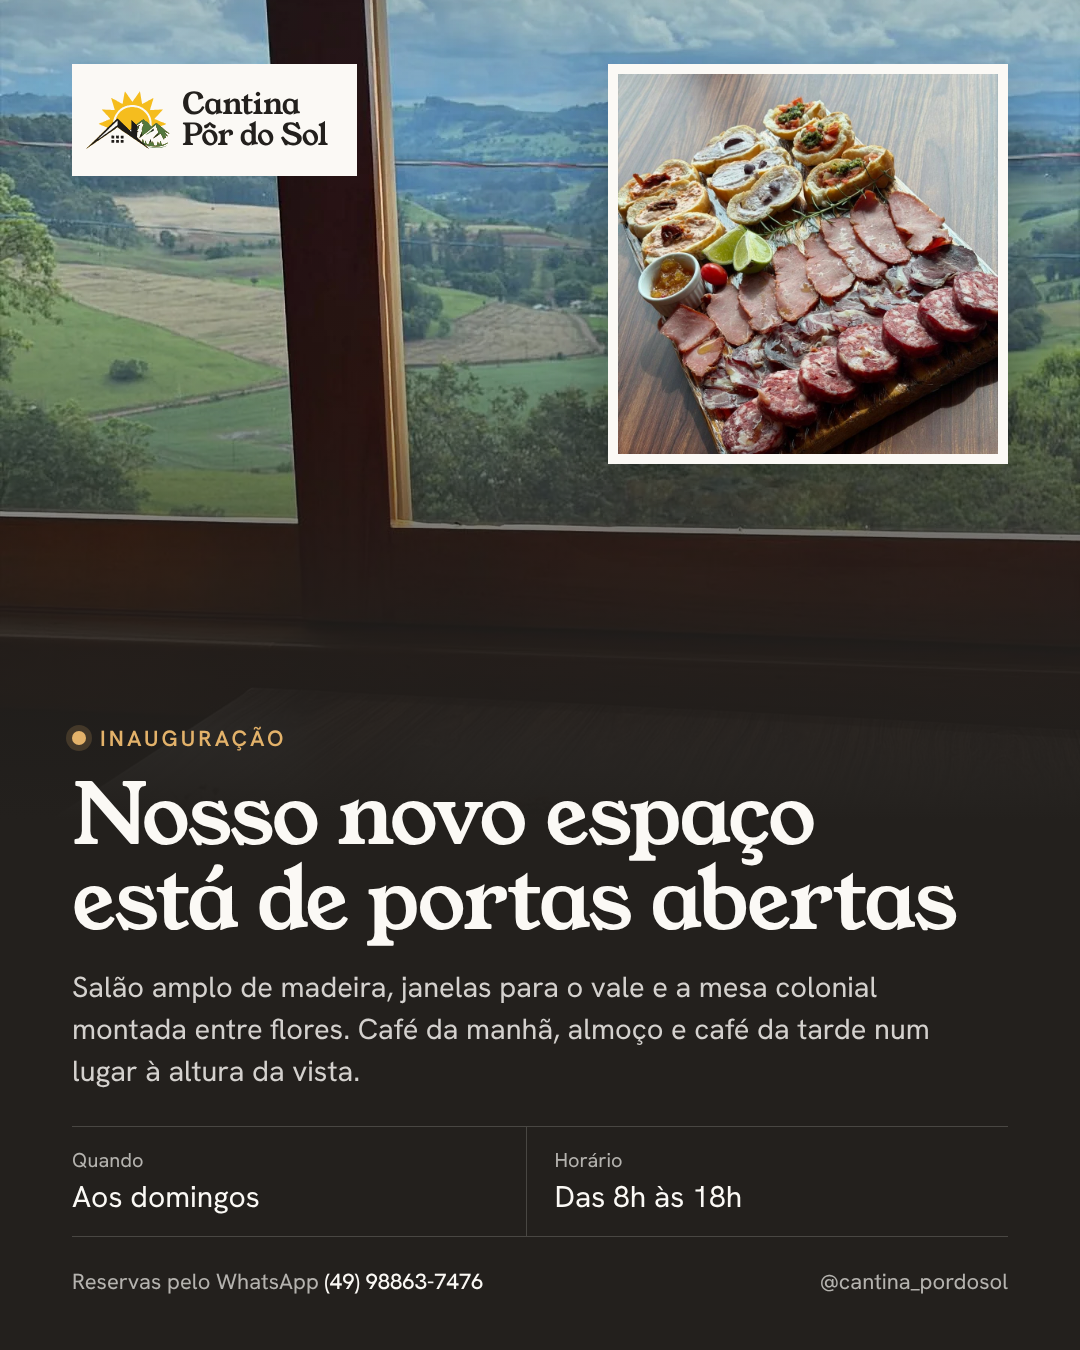
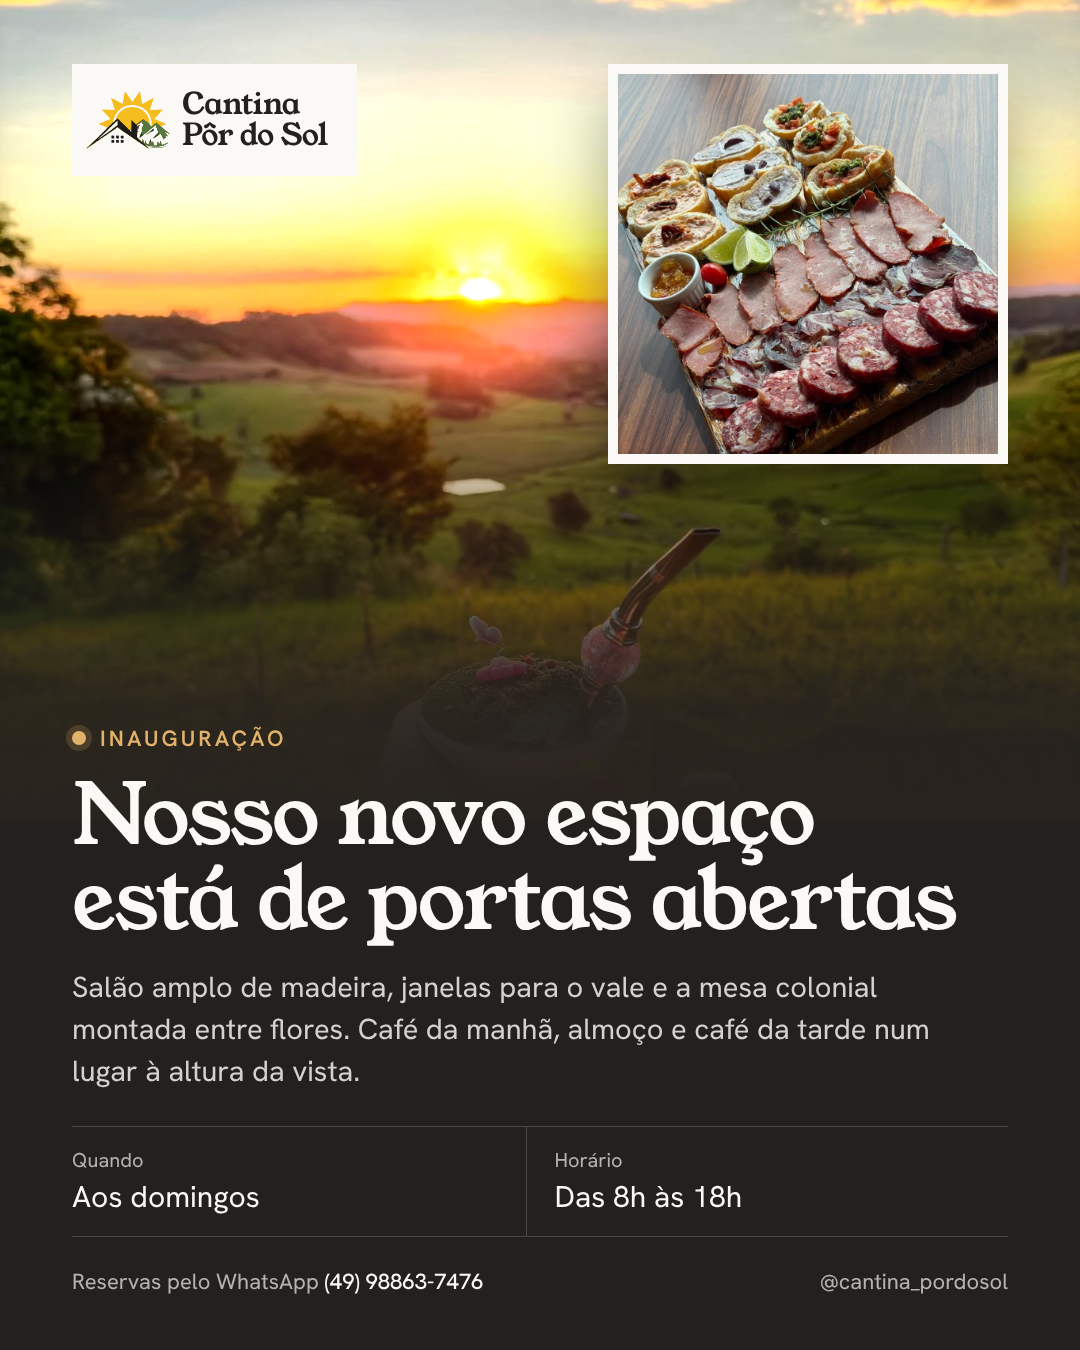
Artes do novo espaço com o pôr do sol sobre o vale ao fundo
Claude-Session: https://claude.ai/code/session_01PmZAygptSP9moUGVfbCWeH

Changed region(s): [[0.0, 0.0, 1.0, 0.5289], [0.0, 0.4667, 0.0306, 0.4978]]

diff --git a/README.md b/README.md
@@ -54,4 +54,4 @@ A pasta `server/` tem a API em NestJS (reservas, experiências, saúde). Veja `s
 A pasta `divulgacao/` guarda as artes para o Instagram (fica fora de `public/`, então não vai para o site):
 
 - `inauguracao-post-1080x1350.png` e `inauguracao-stories-1080x1920.png`: o domingo com café da manhã, almoço e café da tarde, horários e valores, sobre a foto da tábua de frios (`tabua`), com a mesa do café com flores (`buffet-mesa`) em destaque.
-- `novo-espaco-post-1080x1350.png` e `novo-espaco-stories-1080x1920.png`: o anúncio do novo espaço, com a janela para o vale (`vista-tabua`) e a tábua de frios em destaque.
+- `novo-espaco-post-1080x1350.png` e `novo-espaco-stories-1080x1920.png`: o anúncio do novo espaço, com o pôr do sol sobre o vale (`por-do-sol-chimarrao`) ao fundo e a tábua de frios em destaque.
